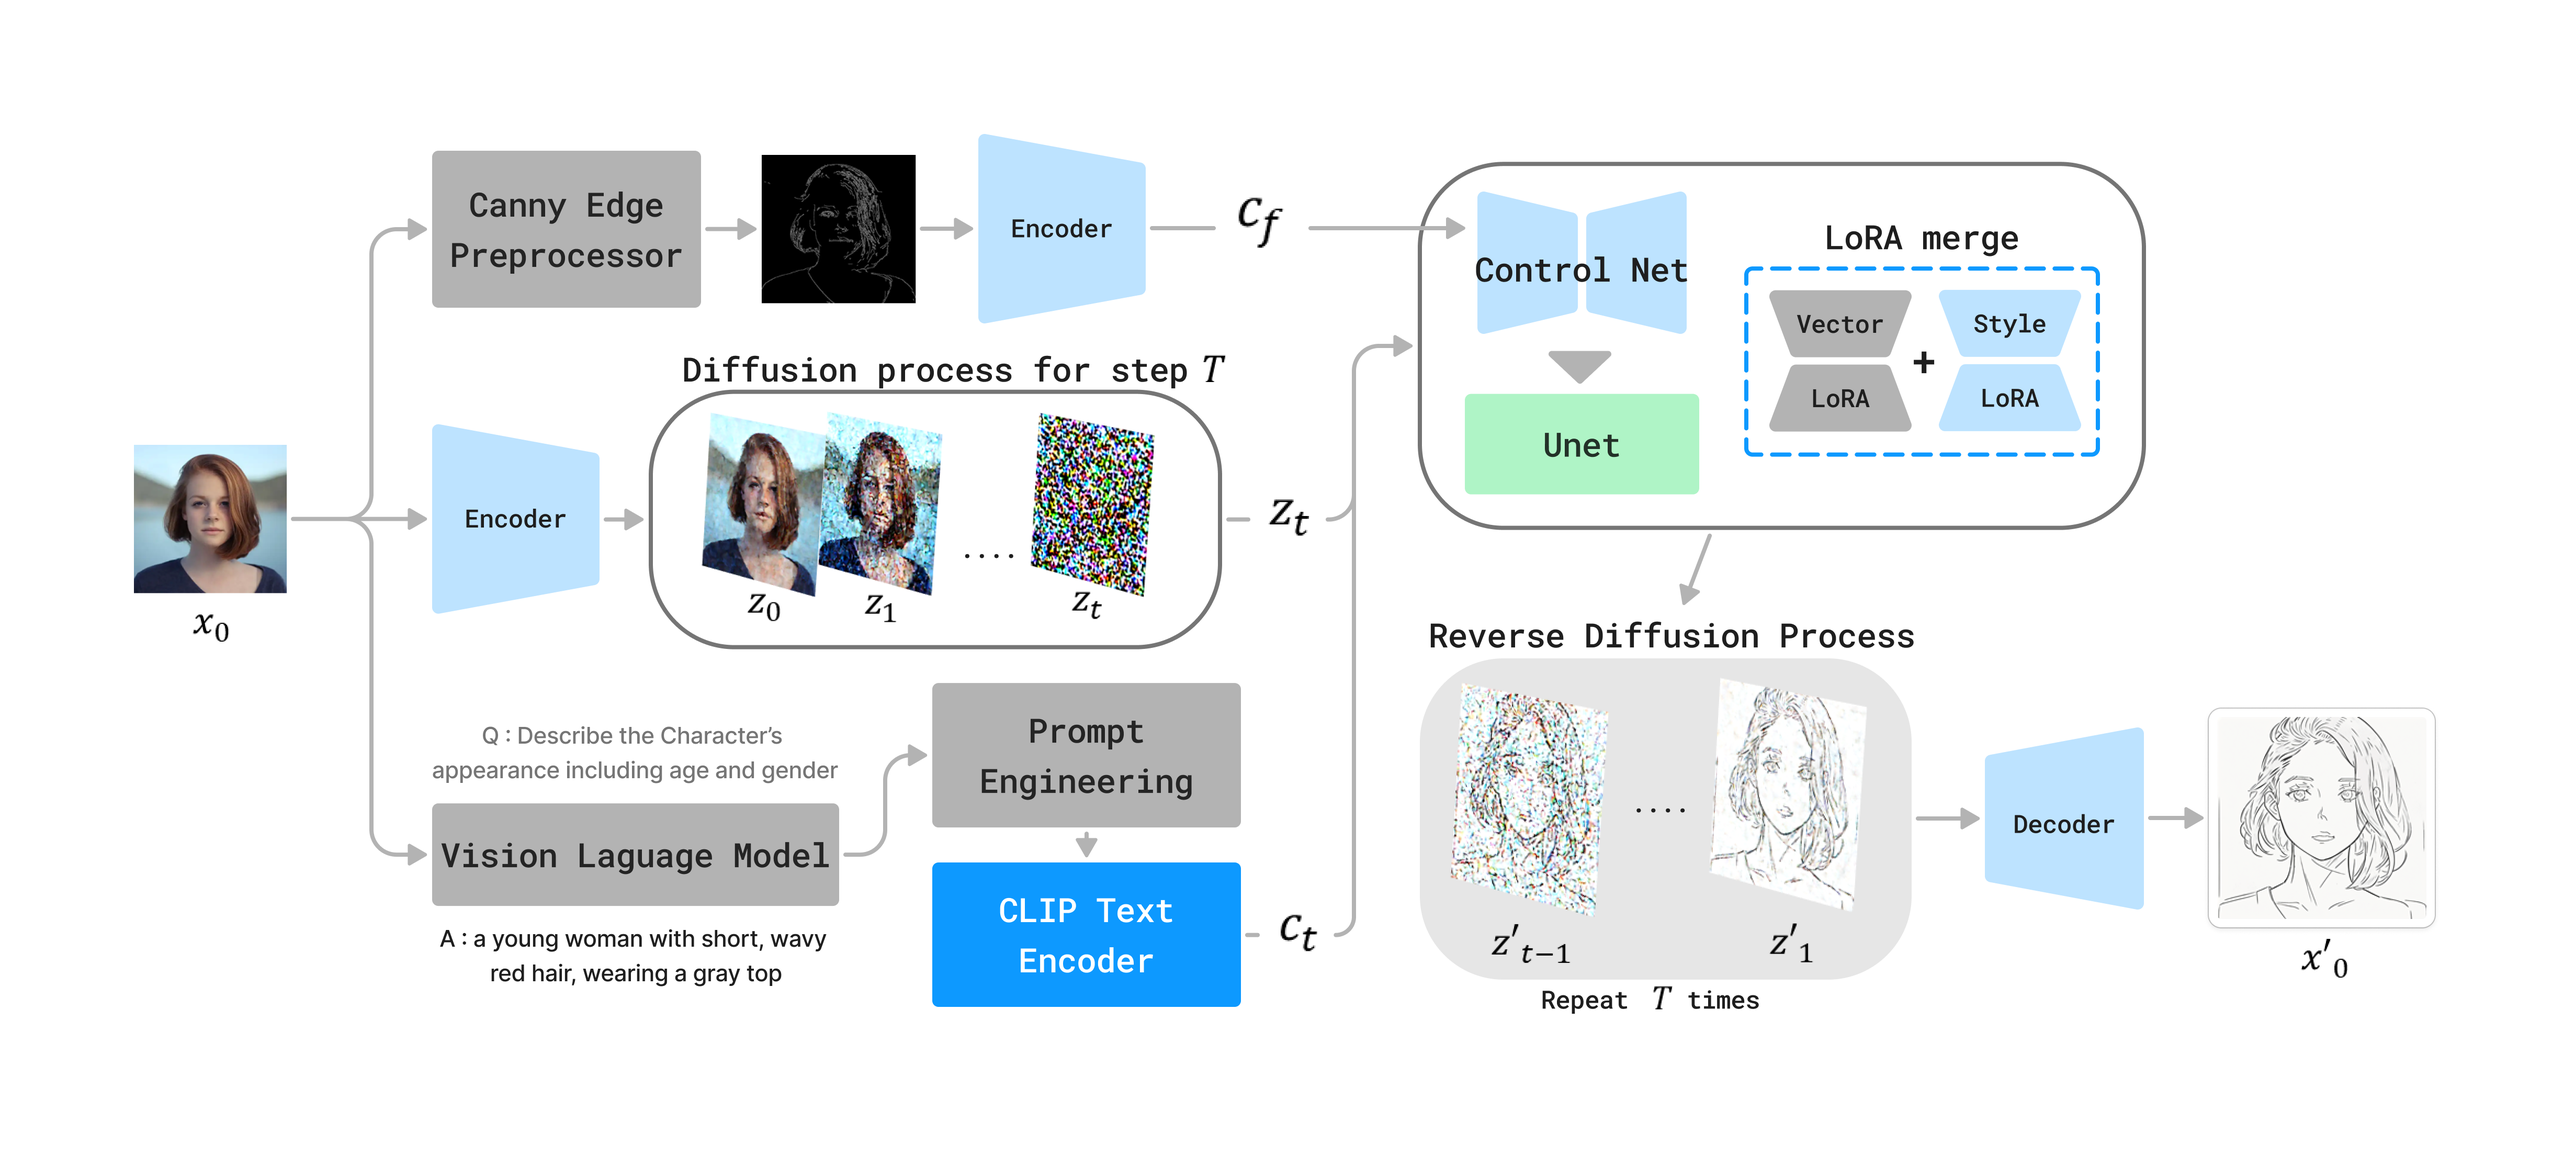
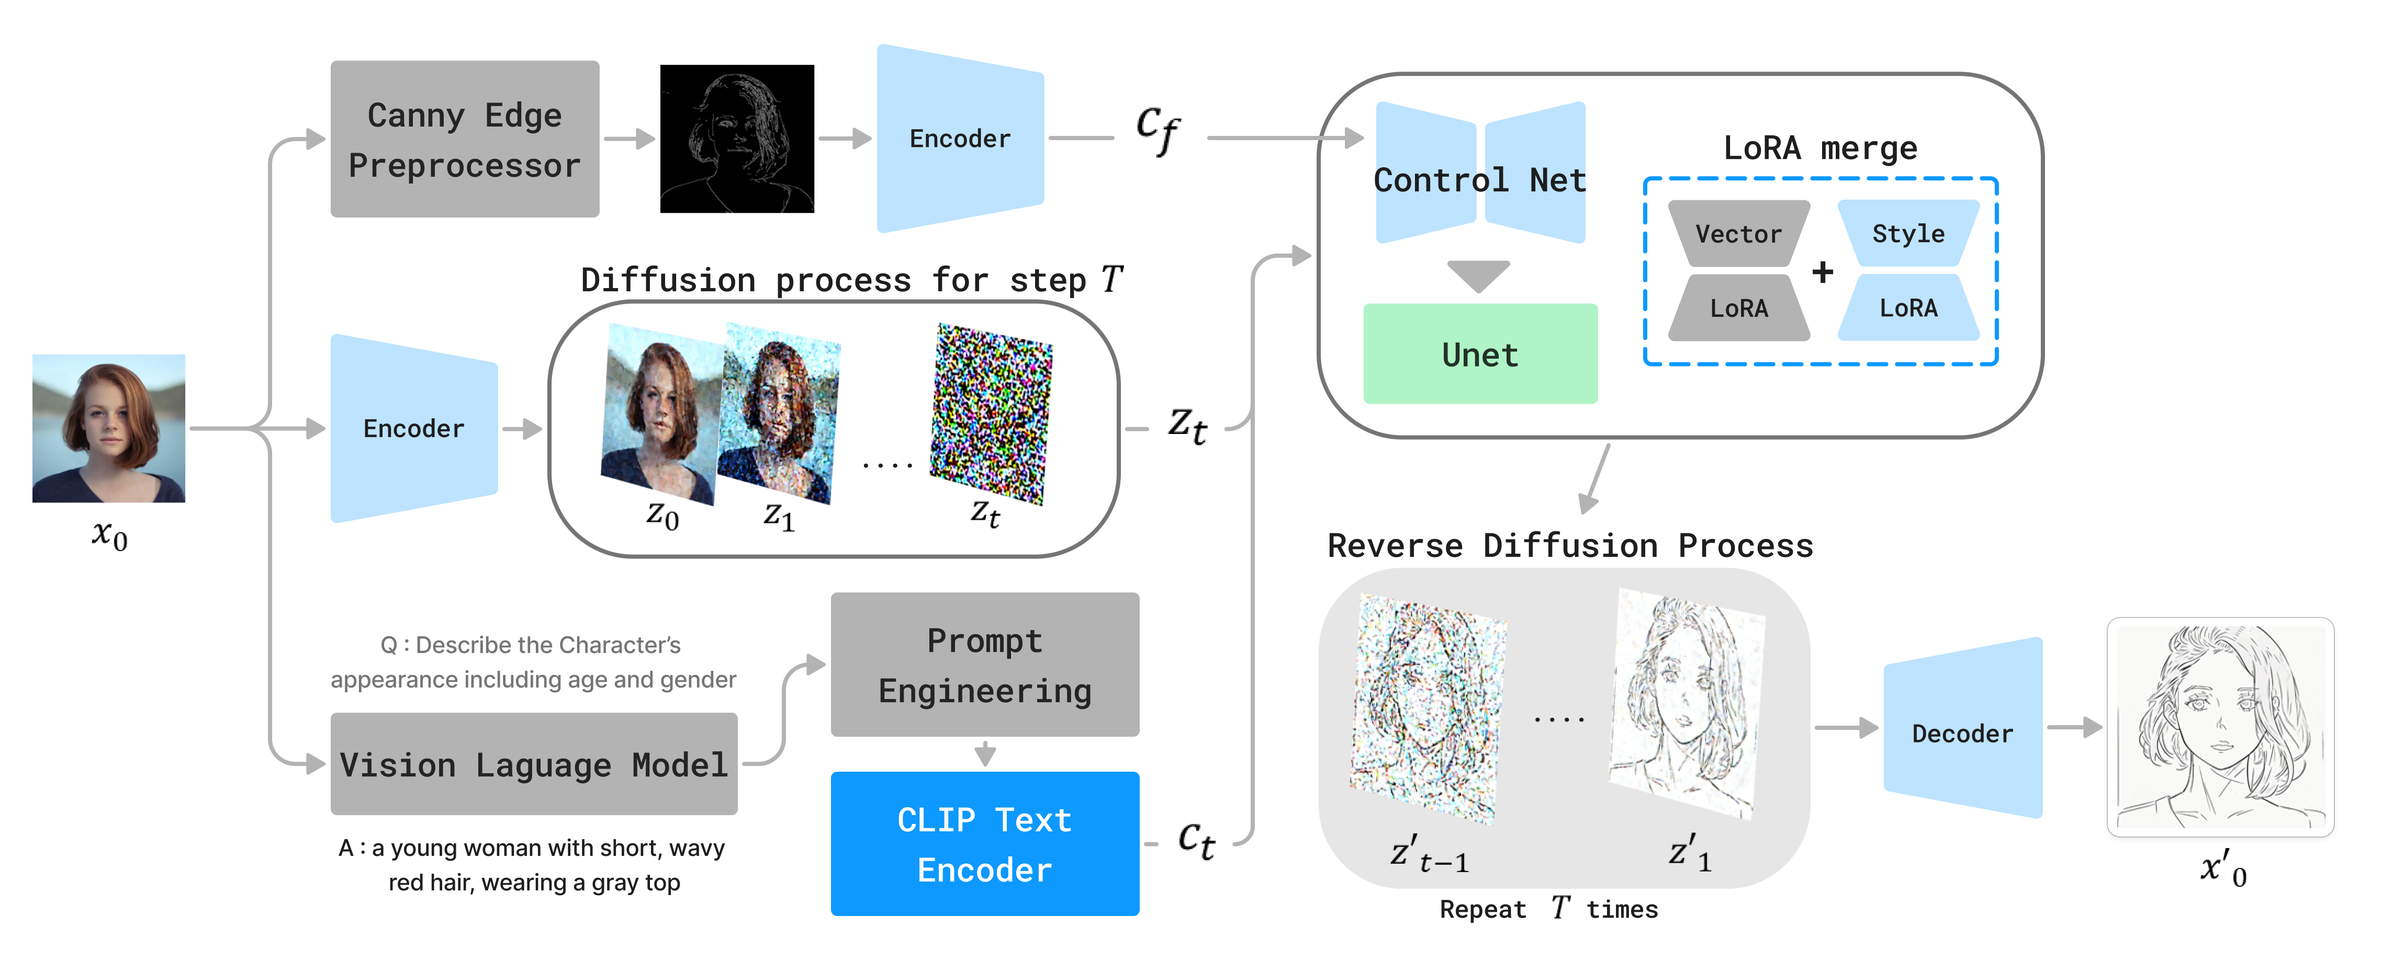
commit

Changed region(s): [[0.0, 0.0312, 0.967, 0.9661]]

diff --git a/index.html b/index.html
@@ -4,6 +4,7 @@
     <meta charset="UTF-8">
     <meta name="viewport" content="width=device-width, initial-scale=1.0">
     <title>SketcherX</title>
+    <script src="https://cdn.jsdelivr.net/npm/mathjax@3/es5/tex-mml-chtml.js"></script>
     <link rel="stylesheet" href="styles.css">
 </head>
 <body>
@@ -147,9 +148,12 @@
                   <div class="slider-container">
                     <button class="slider-button prev" onclick="moveSlide(-1)">&#10094;</button>
                     <div class="slider" id="slider">
-                      <img src="images/1.jpg" alt="Image 1">
-                      <img src="images/2.jpg" alt="Image 2">
-                      <img src="images/3.jpg" alt="Image 3">
+                      <img src="images/5.jpg" alt="Image 1">
+                      <img src="images/4.jpg" alt="Image 2">
+                      <img src="images/1.jpg" alt="Image 3">
+                      <img src="images/2.jpg" alt="Image 4">
+                      <img src="images/3.jpg" alt="Image 5">
+                      <img src="images/6.png" alt="Image 6">
                     </div>
                     <button class="slider-button next" onclick="moveSlide(1)">&#10095;</button>
                   </div>
@@ -188,8 +192,79 @@
         <p>We introduce SketcherX, a novel robotic system for personalized portrait drawing through interactive human-robot engagement. Unlike traditional robotic art systems based on analog printing techniques, SketcherX captures facial images, processes them, and generates vectorized portraits in a distinctive, human-like artistic style. The system comprises two 6-axis robotic arms : a face robot, which is equipped with a head-mounted camera and Large Language Model (LLM) for real-time interaction, and a drawing robot, utilizing a fine-tuned Stable Diffusion model, ControlNet, and Vision-Language models for dynamic, stylized drawing. Our contributions include the development of a custom Vector Low Rank Adaptation model (LoRA), enabling seamless adaptation to various artistic styles, and integrating a pair-wise fine-tuning approach to enhance stroke quality and stylistic accuracy. Experimental results demonstrate the system's ability to produce high-quality, personalized portraits within two minutes, highlighting its potential as a new paradigm in robotic creativity. This work advances the field of robotic art by positioning robots as active participants in the creative process, paving the way for future explorations in interactive, human-robot artistic collaboration.</p>
     </section>
     <section id="Method">
-        <h2>Method</h2>
-        <p>Caption for the figure above...</p>
+        <h2>Overall of Drawing Process</h2>
+        <div class="image-container">
+          <img class="method-image" src="images/overalldrawing.png" alt="Image 7">
+        </div>
+        <p>
+          <strong>Human Feature Extraction</strong> : Using the Canny edge preprocessor, its encoded latent vector \( c_{f} \) is fed into ControlNet.
+            Simultaneously, a Vision Language model generates textual descriptions of the user’s attributes,
+            which are encoded by the CLIP text encoder into \( c_{t} \).
+        </p>
+        <p>
+            <strong>Merge for Clear Vectorized Line </strong> : The initialized latent vector \( z_{t} \), which is the output of the diffusion process of the encoded
+            image of \( x_0 \), is processed through the text-to-image model with a LoRA merge of Vector LoRA
+            and Style LoRA, producing vector-friendly strokes while maintaining the desired artistic style.
+        </p>
+
+        <h2>Pair-wise Fine-tuning with context consistency loss</h2>
+          <div class="image-container">
+            <img class="method-image" src="images/loss.png" alt="Image 8">
+          </div>
+        <div class="image-container">
+            <img class="method-image" src="images/lossfunction.png" alt="Image 9">
+          </div>
+          <p>
+            <strong>Training Data</strong> : Pairs of (Style Images \( x_{\text{style}} \), Regularization Images \( x_{\text{reg}} \)).
+          </p>
+          <p>
+            <strong>Reconstruction Loss (\( L_{\text{rec}} \))</strong> : Trained on the ground-truth image during the reverse diffusion process.
+          </p>
+          <p>
+            <strong>Context Consistency Loss (\( L_{\text{con}} \))</strong> : L2 loss between pairwise data. \( x_{\text{style}} \) is the generated style image conditioned with the text prompt
+            “[description] + [unique identifier]”, and \( x_{\text{reg}} \) is the generated regularization image conditioned with
+            the text prompt “[description]”. This ensures that the content (face features, etc.) between the created style image and the reconstructed image
+            is well-preserved, allowing the model to learn only the differences in drawing style.
+        </p>
+          </p>
+    </section>
+    <section id="lora merging">
+        <h2>LoRA Merging of Vector LoRA and Style LoRA</h2>
+        <div class="image-container">
+            <img class="method-image" src="images/compare.png" alt="Image 10">
+        </div>
+        <p>
+            When merged with Vector LoRA, each style is preserved but transformed into clean, vector-friendly strokes. Using only the Style LoRAs results in distorted SVG shapes unsuitable for robotic drawing. However, combining them with Vector LoRA produces clean, continuous strokes, ideal for robotic drawing.
+        </p>
+        <div class="image-container">
+            <img class="method-image" src="images/variousstyle.png" alt="Image 11">
+        </div>
+        <p>SVG output of four different artistic styles. Each column indicates different model inference outputs, which the model’s weight was updated with different combination of (Style LoRA + Vector LoRA). </p>
+    </section>
+    <section>
+        <h2>BibTex</h2>
+        <pre><code>
+@article{song2024sketcherx,
+  title={SketcherX: AI-Driven Interactive Robotic drawing with Diffusion model and Vectorization Techniques},
+  author={Song, Jookyung and Kang, Mookyoung and Kwak, Nojun},
+  journal={arXiv preprint arXiv:2409.15292},
+  year={2024}
+}
+        </code></pre>
+    <style>
+    pre {
+        background-color: #f4f4f4;
+        padding: 10px;
+        border-radius: 5px;
+        border: 1px solid #ddd;
+        overflow-x: auto; /* Adds horizontal scroll if content overflows */
+    }
+    code {
+        font-family: "Courier New", Courier, monospace;
+        color: #333;
+    }
+</style>
+
     </section>
     <footer>
         <p>© AllenEdgarPoe| <a href="https://github.com/AllenEdgarPoe">Github Profile</a></p>

diff --git a/styles.css b/styles.css
@@ -89,15 +89,6 @@ body {
   box-shadow: 0 2px 5px rgba(0, 0, 0, 0.1);
 }
 
-.slider {
-  display: flex;
-  transition: transform 0.5s ease-in-out;
-}
-
-.slider img {
-  width: 100%;
-  flex-shrink: 0;
-}
 
 .slider-button {
   position: absolute;
@@ -123,6 +114,21 @@ body {
 .slider img {
   max-width: 100%;
   border-radius: 8px;
+}
+
+/* Image container for Method section */
+.image-container {
+    text-align: center; /* Center the image horizontally */
+    margin: 20px auto; /* Add spacing around the image */
+}
+
+/* Method image styling */
+.method-image {
+    max-width: 100%; /* Scale the image to fit within the container */
+    height: auto; /* Maintain the aspect ratio */
+    border-radius: 8px; /* Optional: Add rounded corners */
+    box-shadow: 0 2px 5px rgba(0, 0, 0, 0.1); /* Optional: Add a shadow effect */
+    max-height: 500px; /* Limit the height for large images */
 }
 
 section {
@@ -167,3 +173,5 @@ footer a:hover {
         padding: 0.5rem 1rem;
     }
 }
+
+
